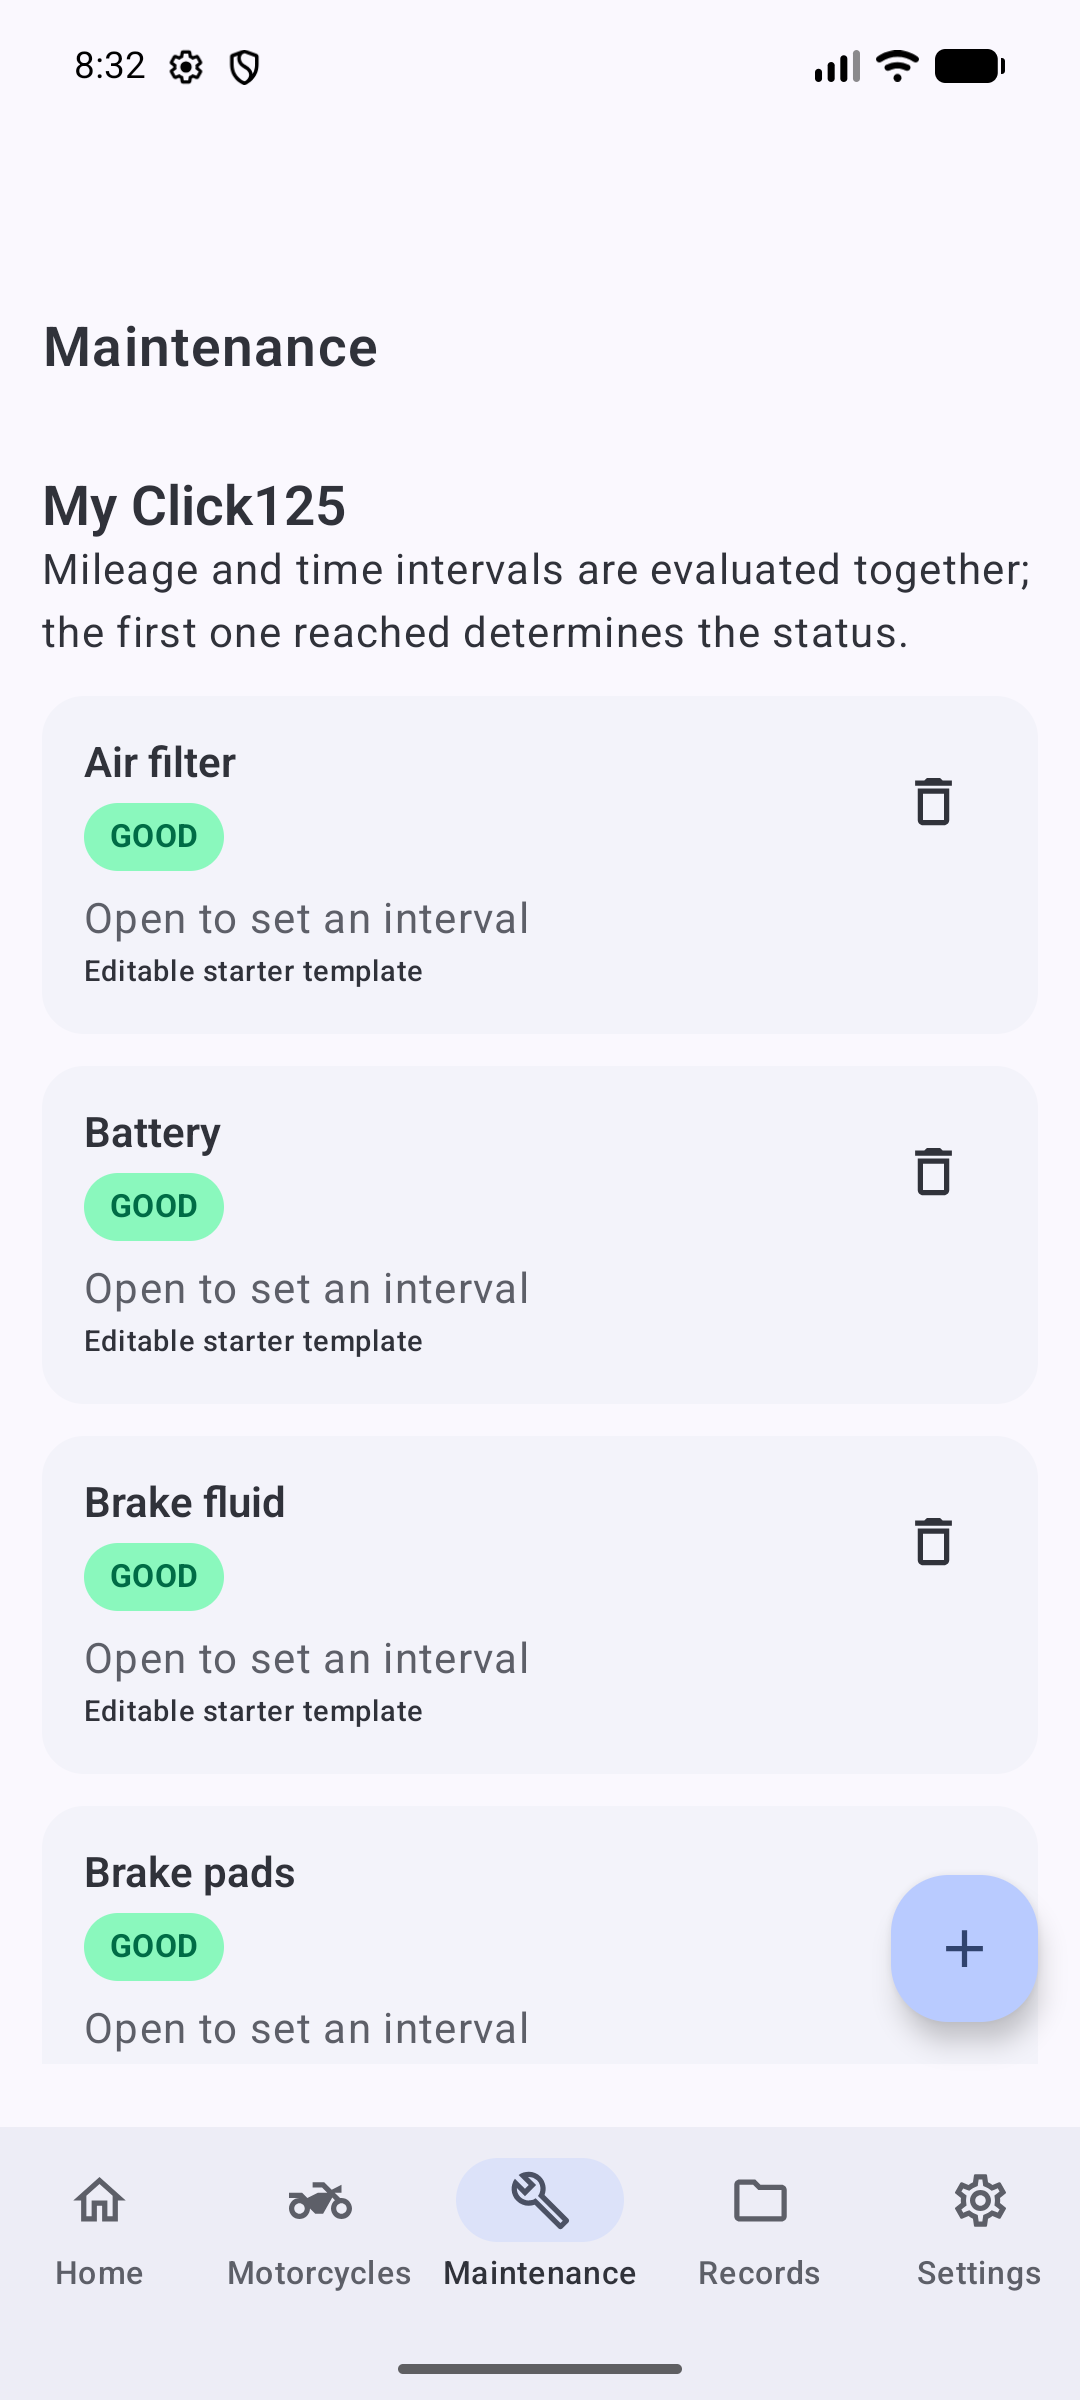
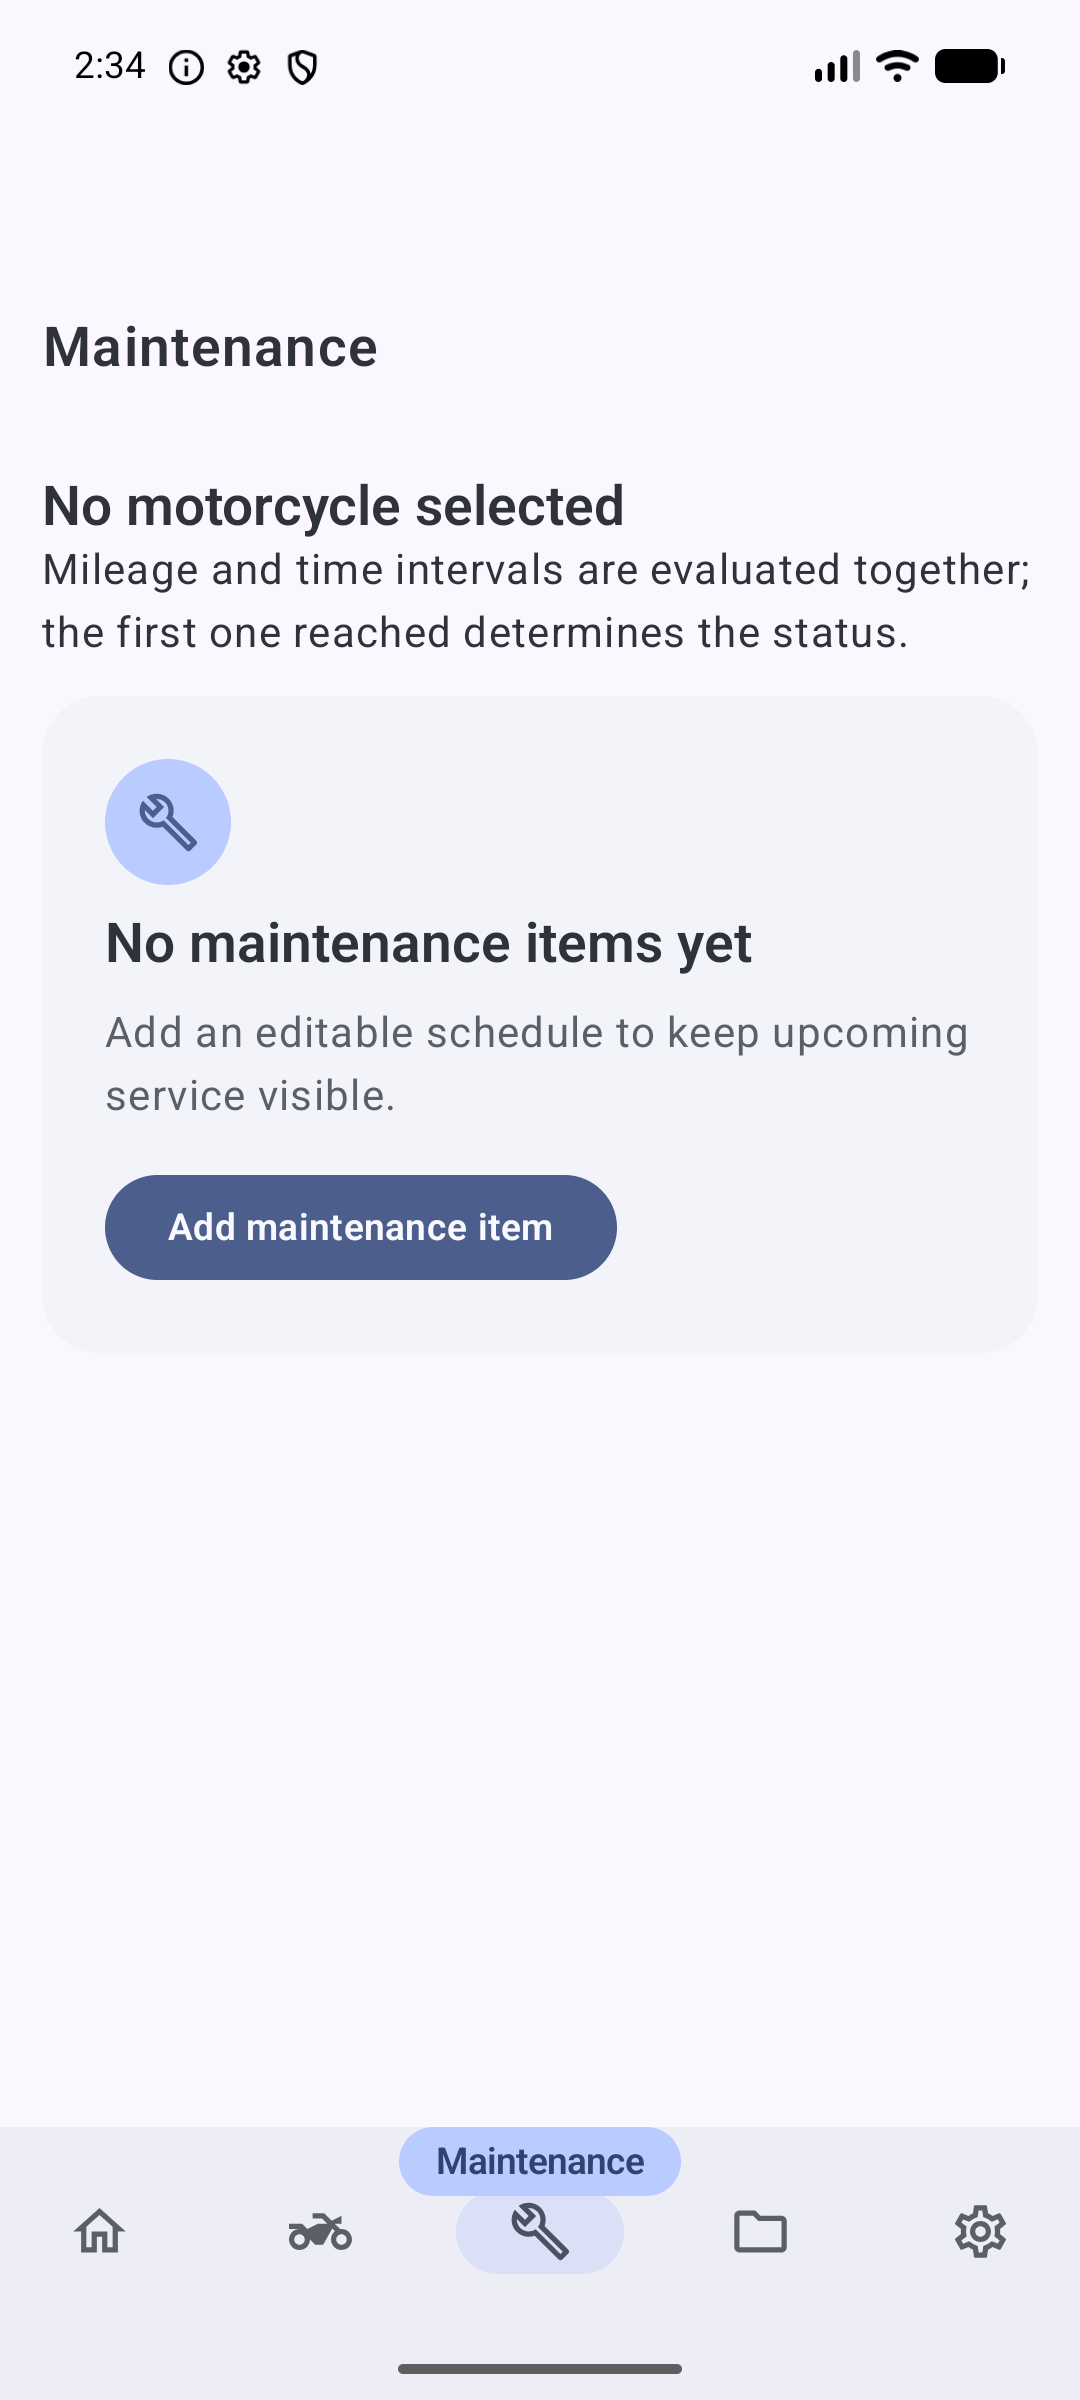
chore: prepare 1.0.1 release

diff --git a/app/src/main/java/com/motocare/app/ui/MotoCareApp.kt b/app/src/main/java/com/motocare/app/ui/MotoCareApp.kt
@@ -189,12 +189,14 @@ private fun MainNavigation() {
 
 @Composable
 private fun MotoCareBottomBar(route: String?, onNavigate: (Destination) -> Unit) {
-    var visibleLabel by remember { mutableStateOf<String?>(null) }
+    var displayedLabel by remember { mutableStateOf("") }
+    var isLabelVisible by remember { mutableStateOf(false) }
 
     LaunchedEffect(route) {
-        visibleLabel = destinations.firstOrNull { it.route == route }?.label
+        displayedLabel = destinations.firstOrNull { it.route == route }?.label.orEmpty()
+        isLabelVisible = displayedLabel.isNotEmpty()
         delay(1_400)
-        visibleLabel = null
+        isLabelVisible = false
     }
 
     Box {
@@ -208,7 +210,7 @@ private fun MotoCareBottomBar(route: String?, onNavigate: (Destination) -> Unit)
             }
         }
         AnimatedVisibility(
-            visible = visibleLabel != null,
+            visible = isLabelVisible,
             modifier = Modifier.align(Alignment.TopCenter),
             enter = fadeIn() + scaleIn(initialScale = 0.88f) + slideInVertically { it / 2 },
             exit = fadeOut() + scaleOut(targetScale = 0.92f) + slideOutVertically { it / 2 },
@@ -220,7 +222,7 @@ private fun MotoCareBottomBar(route: String?, onNavigate: (Destination) -> Unit)
                 tonalElevation = 3.dp,
             ) {
                 Text(
-                    text = visibleLabel.orEmpty(),
+                    text = displayedLabel,
                     modifier = Modifier.padding(horizontal = 14.dp, vertical = 5.dp),
                     style = MaterialTheme.typography.labelLarge,
                     fontWeight = FontWeight.SemiBold,

diff --git a/docs/privacy/index.html b/docs/privacy/index.html
@@ -12,7 +12,7 @@
     <header>
         <div class="eyebrow">MotoCare</div>
         <h1>Privacy policy</h1>
-        <p class="updated">Last updated July 19, 2026 · Applies to MotoCare 1.0.0</p>
+        <p class="updated">Last updated July 19, 2026 · Applies to MotoCare 1.0.1</p>
         <p>MotoCare is designed as an offline, single-device Android application.</p>
         <a href="../">← MotoCare home</a>
     </header>

diff --git a/docs/PRODUCTION_AUDIT.md b/docs/PRODUCTION_AUDIT.md
@@ -4,12 +4,14 @@ Audit date: 2026-07-19
 
 ## Result
 
-MotoCare 1.0.0 is a production release candidate. The codebase, local-data flows, offline privacy contract, optimized release build, and automated tests pass. Publishing still requires the release owner's signing identity, Play listing configuration, and representative physical-device checks.
+MotoCare 1.0.1 is a production release candidate. The codebase, local-data flows, offline privacy contract, optimized release build, and automated tests pass. Publishing still requires representative physical-device checks and, for Google Play, listing configuration.
 
 ## Verified
 
 - `testDebugUnitTest`, `lintDebug`, `assembleDebug`, `assembleDebugAndroidTest`, `connectedDebugAndroidTest`, and `bundleRelease` pass.
-- 12 JVM tests and 11 API 37 emulator tests pass.
+- 12 JVM tests and 10 API 37 emulator tests pass.
+- The signed 1.0.1 APK and AAB use the same release certificate as 1.0.0; APK signature verification and AAB JAR verification pass.
+- An emulator upgrade from signed 1.0.0 to signed 1.0.1 succeeded and preserved existing records; a clean 1.0.1 install showed the empty-start onboarding with no sample action.
 - Room schema versions 1 and 2 are committed, with a tested non-destructive `1 → 2` migration.
 - JSON restore accepts versions 1 and 2, upgrades legacy motorcycle rows, validates foreign keys, and rolls back the entire restore on failure.
 - Odometer purchase baselines feed dashboard, reports, cost-per-kilometre, and coverage forecasting through one shared calculation path.
@@ -19,18 +21,18 @@ MotoCare 1.0.0 is a production release candidate. The codebase, local-data flows
 - Reminders are opt-in, and the runtime notification permission is requested only after reminders are enabled.
 - Adaptive, themed monochrome, and notification icons build successfully.
 - Onboarding was visually checked at 200% font scale and remained fully reachable by scrolling.
+- Fresh installations create no sample motorcycle or record data, and bottom navigation uses icon-first destinations with transient single-line labels.
 - Git commits use the configured human author and conventional commit subjects; no signing material or credentials are tracked.
 
 ## Non-blocking maintenance findings
 
 - Lint reports dependency-update availability and a KSP migration suggestion. These are maintenance opportunities, not correctness or release errors; dependency upgrades should be handled as a separately tested change.
-- The optimized unsigned AAB is roughly 4.5 MB. The release owner must produce the final signed bundle using the documented Gradle properties.
+- The optimized signed APK is roughly 1.8 MB, the signed AAB is roughly 4.3 MB, and the matching R8 mapping file is generated for archival with the release.
 
 ## Release-owner gate
 
 Complete every unchecked item in [RELEASE_CHECKLIST.md](RELEASE_CHECKLIST.md), especially:
 
-- provide the upload keystore through secure Gradle/CI properties and verify the signed AAB;
 - run TalkBack, light/dark, large-font, notification, backup/restore, and CSV smoke tests on representative physical devices, including an API 26 device or emulator;
 - publish the privacy policy, complete Play data safety/content rating, provide support contact and store copy, and capture final screenshots;
 - archive the signed AAB and matching R8 mapping file for the release.

diff --git a/CHANGELOG.md b/CHANGELOG.md
@@ -1,5 +1,12 @@
 # Changelog
 
+## 1.0.1
+
+- Removed the bundled Honda Click125 sample so every fresh installation starts with an empty garage
+- Simplified onboarding to one clear empty-start action
+- Replaced wrapping bottom-navigation labels with evenly spaced icons and a brief animated destination label
+- Preserved TalkBack destination descriptions and the selected-item visual indicator
+
 ## 1.0.0
 
 First production-candidate release.

diff --git a/docs/RELEASE_CHECKLIST.md b/docs/RELEASE_CHECKLIST.md
@@ -4,7 +4,8 @@
 
 - Run `./gradlew testDebugUnitTest lintDebug assembleDebug assembleDebugAndroidTest bundleRelease`.
 - Run `./gradlew connectedDebugAndroidTest` on an API 26+ emulator or device.
-- Smoke-test onboarding with both sample and empty starts.
+- Smoke-test onboarding and confirm a fresh installation starts with an empty garage.
+- Install the signed APK over the previous signed release and confirm existing local records remain available.
 - Check light, dark, large-font, and TalkBack navigation on a physical device.
 - Verify notification permission, channel settings, and reminder opt-outs.
 - Create a backup, restore it, and compare motorcycle and record counts.
@@ -33,4 +34,4 @@
 - Confirm the automated merged-manifest permission test passes.
 - Confirm Room migrations work from every previously released schema.
 - Confirm backup restore is compatible with the release schema.
-- Confirm sample maintenance schedules remain clearly labeled as editable templates.
+- Confirm no motorcycle or record data is created before the user adds it.

diff --git a/PRIVACY.md b/PRIVACY.md
@@ -20,7 +20,7 @@ MotoCare requests notification permission on supported Android versions. It does
 
 Android may also declare non-runtime WorkManager permissions for scheduled local reminders, including wake lock, boot completion, and foreground-service support. MotoCare's automated manifest test rejects network, broad storage, location, camera, microphone, and contacts permissions.
 
-This document describes version 1.0.0 and should be reviewed whenever dependencies or data handling change.
+This document describes version 1.0.1 and should be reviewed whenever dependencies or data handling change.
 
 ## Contact
 